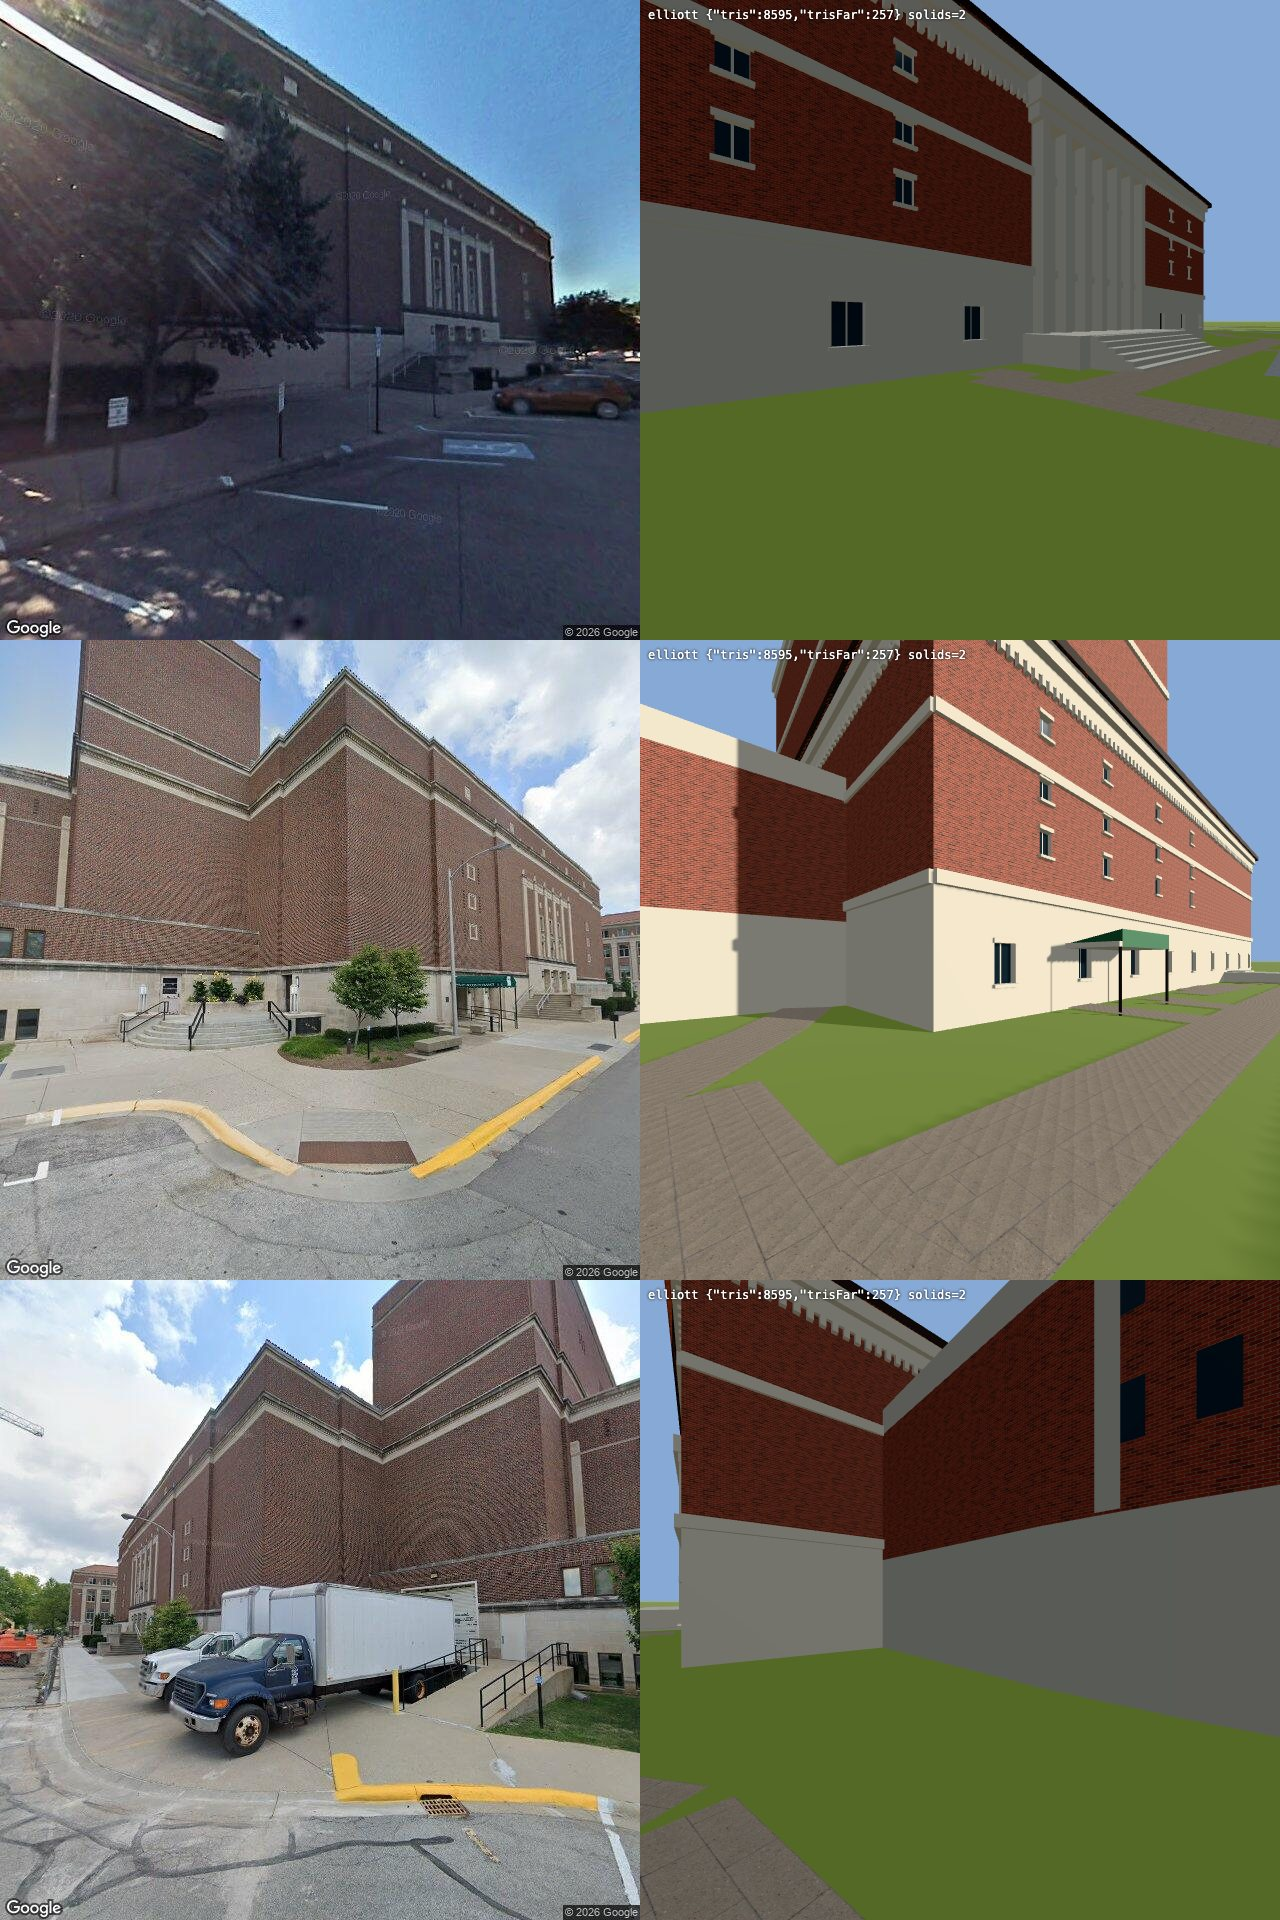
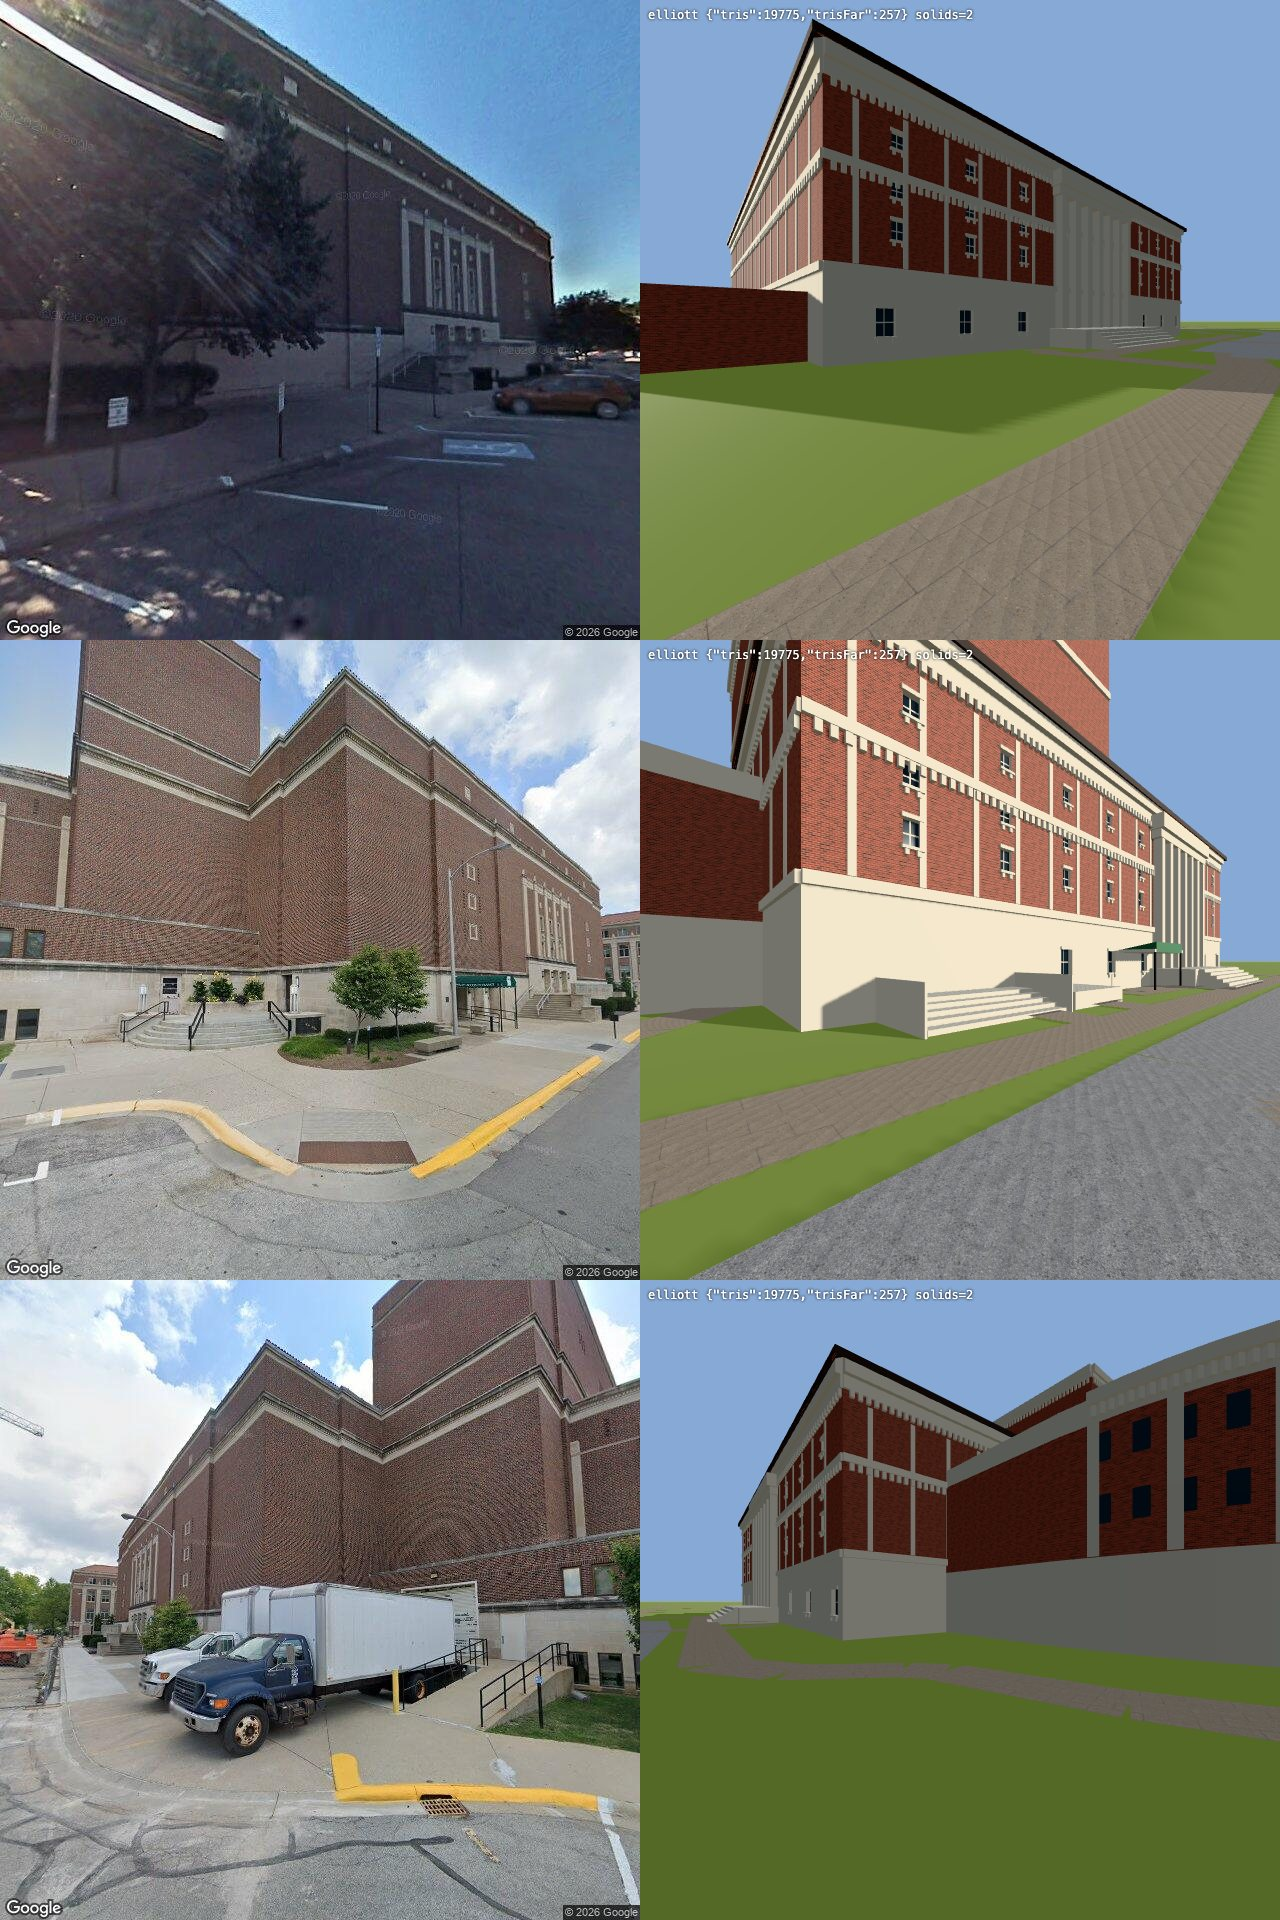
v5: Elliott Hall and Memorial Mall hotspots, hotspot shots tool, side-by-sides, assets log

Changed region(s): [[0.5, 0.0, 1.0, 0.9062], [0.5, 0.9062, 0.6875, 1.0]]

diff --git a/packages/saltline/src/campus/hotspots/elliott.js b/packages/saltline/src/campus/hotspots/elliott.js
@@ -80,6 +80,8 @@ export async function build(G, zone) {
     B.stone.q(f.P(s0, y0, 0), f.P(s0, y0, -dep), f.P(s0, y1, -dep), f.P(s0, y1, 0), 1, 1); B.stone.q(f.P(s1, y0, 0), f.P(s1, y0, -dep), f.P(s1, y1, -dep), f.P(s1, y1, 0), 1, 1);
     B.stone.q(f.P(s0, y1, 0), f.P(s1, y1, 0), f.P(s1, y1, -dep), f.P(s0, y1, -dep), 1, 1); B.stone.q(f.P(s0, y0, 0), f.P(s1, y0, 0), f.P(s1, y0, -dep), f.P(s0, y0, -dep), 1, 1);
     quad(B.stone, f, (s0 + s1) / 2 - 0.04, y0, (s0 + s1) / 2 + 0.04, y1, -dep + 0.02);
+    quad(B.stone, f, s0, (y0 + y1) / 2 - 0.04, s1, (y0 + y1) / 2 + 0.04, -dep + 0.02); // transom
+    for (const c of [s0 + 0.05, s1 - 0.25]) sillBox(f, c, y0 - 0.38, c + 0.2, y0 - 0.14, 0.12); // sill corbels
     sillBox(f, s0 - 0.12, y0 - 0.14, s1 + 0.12, y0, 0.16); sillBox(f, s0 - 0.1, y1, s1 + 0.1, y1 + 0.2, 0.1);
   };
 
@@ -90,7 +92,7 @@ export async function build(G, zone) {
   const WINS = [];
   for (const f of [faces.nw, faces.se]) {
     for (let q = 3; q < f.L - 2; q += 6.4) { if ((f === faces.nw && q > 19 && q < 38) || (f === faces.se && ((q > 29 && q < 47) || q < 14))) continue; WINS.push([f, q, 1.5, q + 1.3, 3.2, 0.3]); }
-    for (const q of f === faces.nw ? [6, 12, 44, 50] : [18, 24, 50, 54]) for (const [y0, y1] of [[7.4, 8.6], [10.0, 11.0], [13.0, 14.0]]) WINS.push([f, q, y0, q + 0.9, y1, 0.2]);
+    for (const q of [4, 10, 16, 22, 28, 34, 40, 46, 52].filter((x) => !(f === faces.nw && x > 19 && x < 37) && !(f === faces.se && x > 29 && x < 47))) for (const [y0, y1] of [[7.4, 8.6], [10.0, 11.0], [13.0, 14.0]]) WINS.push([f, q, y0, q + 0.9, y1, 0.2]);
   }
   for (const [f, a, b, c, d] of WINS) hole(f, a, b, c, d);
   hole(faces.nw, PN[0], 5.4, PN[1], 14.6); hole(faces.se, PS[0], 5.4, PS[1], 14.6); // portico recesses
@@ -98,7 +100,8 @@ export async function build(G, zone) {
     holey(B.stone, f, 0, PL, S.stone); holey(B.brick, f, PL, EAVE, S.brick); quad(F.stoneF, f, 0, 0, f.L, PL, 0, S.stone); quad(F.brickF, f, 0, PL, f.L, EAVE, 0, S.brick);
     // belt courses and frieze/cornice (m: Street View shows a string course at the basement top, one at ~half height and a deep cornice under the eave)
     for (const [y0, y1, o] of [[PL - 0.05, PL + 0.45, 0.2], [11.1, 11.6, 0.14], [15.6, 16.4, 0.15], [16.4, EAVE, 0.45]]) sillBox(f, 0, y0, f.L, y1, o);
-    for (let s = 0.4; s < f.L - 0.4; s += 0.55) sillBox(f, s, 15.15, s + 0.28, 15.6, 0.22); // dentils
+    for (let s = 1.6; s < f.L - 1; s += 3.2) sillBox(f, s, PL + 0.5, s + 0.35, 15.0, 0.07); // brick piers
+    for (let s = 0.4; s < f.L - 0.4; s += 0.55) { sillBox(f, s, 15.15, s + 0.28, 15.6, 0.22); sillBox(f, s, 10.6, s + 0.28, 11.05, 0.18); } // dentils under the cornice and the belt course
   }
   // roof: four trapezoids to the flat top + overhang soffit + fascia (closed, outer ring at EAVE - OV*TAN)
   const yo = EAVE - OV * TAN, inset = (TOP - yo) / TAN - OV;
@@ -110,7 +113,7 @@ export async function build(G, zone) {
     B.tile.q(a, b, c, d, 1, 1, [[0, 0], [w, 0], [w - off, hh], [off, hh]]); F.tileF.q(a, b, c, d, 1, 1, [[0, 0], [w, 0], [w - off, hh], [off, hh]]);
     const e0 = pt(hc[i], EAVE), e1 = pt(hc[j], EAVE), o0 = pt(out[i], yo), o1 = pt(out[j], yo);
     B.dark.q(e0, e1, o1, o0, 1, 1); B.dark.q(o0, o1, [o1[0], yo + 0.5, o1[2]], [o0[0], yo + 0.5, o0[2]], 1, 1); // soffit + fascia
-    for (let s = 0.45; s < w - 0.45; s += 0.9) { // raised tile seams every 0.9 m up the slope
+    for (let s = 0.15; s < w - 0.15; s += 0.3) { // raised tile seams every 0.3 m up the slope
       const t = s / w, base = [a[0] + (b[0] - a[0]) * t, a[1], a[2] + (b[2] - a[2]) * t], topP = [d[0] + (c[0] - d[0]) * t, TOP, d[2] + (c[2] - d[2]) * t];
       const nx = (-(b[2] - a[2]) / w) * 0.03, nz = ((b[0] - a[0]) / w) * 0.03;
       B.tile.q([base[0] - nx, base[1] + 0.04, base[2] - nz], [base[0] + nx, base[1] + 0.04, base[2] + nz], [topP[0] + nx, topP[1] + 0.04, topP[2] + nz], [topP[0] - nx, topP[1] + 0.04, topP[2] - nz], 0.2, 0.2);
@@ -126,7 +129,7 @@ export async function build(G, zone) {
     const tf = [face([T.u0, T.v0], [T.u1, T.v0], [0, -1]), face([T.u1, T.v0], [T.u1, T.v1], [1, 0]), face([T.u1, T.v1], [T.u0, T.v1], [0, 1]), face([T.u0, T.v1], [T.u0, T.v0], [-1, 0])];
     for (const f of tf) {
       quad(B.brick, f, 0, EAVE - 0.3, f.L, T.top, 0, S.brick); quad(F.brickF, f, 0, EAVE - 0.3, f.L, T.top, 0, S.brick);
-      sillBox(f, 0, T.top - 1.4, f.L, T.top - 0.9, 0.18); sillBox(f, 0, T.top - 0.9, f.L, T.top, 0.4); sillBox(f, 0, 23.0, f.L, 23.5, 0.14);
+      for (let q = 0.4; q < f.L - 0.4; q += 0.55) sillBox(f, q, T.top - 2.0, q + 0.28, T.top - 1.45, 0.2); sillBox(f, 0, T.top - 1.4, f.L, T.top - 0.9, 0.18); sillBox(f, 0, T.top - 0.9, f.L, T.top, 0.4); sillBox(f, 0, 23.0, f.L, 23.5, 0.14);
     }
     const tp = tc.map(([u, v]) => W(u, v)); fillPoly(B.dark, tp, T.top, 0.3); fillPoly(F.darkF, tp, T.top, 0.3);
   }
@@ -143,6 +146,7 @@ export async function build(G, zone) {
         const a2 = grow(a, 0.4), b2 = grow(b, 0.4);
         wall(B.stone, a2, b2, D.h - 0.5, D.h + 0.15, S.stone); B.stone.q([a2[0], D.h + 0.15, a2[1]], [b2[0], D.h + 0.15, b2[1]], [b[0], D.h + 0.15, b[1]], [a[0], D.h + 0.15, a[1]], 1, 1);
         B.stone.q([a[0], D.h - 0.5, a[1]], [b[0], D.h - 0.5, b[1]], [b2[0], D.h - 0.5, b2[1]], [a2[0], D.h - 0.5, a2[1]], 1, 1);
+        for (const t of [0.15, 0.4, 0.65, 0.9]) { const g = grow([a[0] + (b[0] - a[0]) * t, a[1] + (b[1] - a[1]) * t], 0.2); box(B.stone, g[0] - 0.12, D.h - 1.1, g[1] - 0.12, g[0] + 0.12, D.h - 0.55, g[1] + 0.12); } // dentils
         if (i % 2 === 0) wall(B.stone, grow(a, 0.3), grow([a[0] + (b[0] - a[0]) * 0.35, a[1] + (b[1] - a[1]) * 0.35], 0.3), 4.6, D.h - 1.3, 1);
         for (const [y0, y1] of [[6.2, 7.6], [9.2, 10.6]]) {
           const wa = grow([a[0] + (b[0] - a[0]) * 0.18, a[1] + (b[1] - a[1]) * 0.18], 0.04), wb = grow([a[0] + (b[0] - a[0]) * 0.62, a[1] + (b[1] - a[1]) * 0.62], 0.04);
@@ -190,7 +194,7 @@ export async function build(G, zone) {
   for (const b of Object.values(F)) if (b.p.length) far3.add(b.mesh());
   const group = new Group(); group.name = 'elliott'; group.add(near3, far3); far3.visible = false;
   // near/far swap at FAR m from the building centre, driven by the render camera (hysteresis 10 m)
-  const C = W(40, 30), pump = new Mesh(new BoxGeometry(0.01, 0.01, 0.01), new MeshBasicMaterial({ visible: false })); pump.frustumCulled = false;
+  const C = W(40, 30), pump = new Mesh(new BoxGeometry(0.01, 0.01, 0.01), new MeshBasicMaterial({ colorWrite: false, depthWrite: false })); pump.frustumCulled = false;
   pump.onBeforeRender = (r, sc, camera) => { const d = Math.hypot(camera.position.x - C[0], camera.position.z - C[1]), f = d > FAR + (far3.visible ? -10 : 0); far3.visible = f; near3.visible = !f; };
   group.add(pump);
   const tris = Object.values(B).reduce((s, b) => s + b.tris, 0), trisFar = Object.values(F).reduce((s, b) => s + b.tris, 0);

diff --git a/packages/saltline/src/campus/hotspots/memorial-mall.js b/packages/saltline/src/campus/hotspots/memorial-mall.js
@@ -3,7 +3,7 @@
 // Species mix and canopy: env/trees.js (oak/maple/linden/locust/spruce/pear, seasonal via ?season=). Guessed: bench and lamp spacing; flower-bed planting colours.
 // Measured from Street View: black post lamps with a lantern head, bollards linked by chain along the drive, wide pale concrete walks with a brick-paver edge band, juniper hedge in the drive median.
 // No monuments are in the OSM data or visible in the 5 frames, so none are drawn (reported in docs/assets.md).
-import { Group, Mesh, MeshStandardMaterial, SphereGeometry, InstancedMesh, Matrix4, Color, Quaternion, Vector3 } from 'three';
+import { Group, Mesh, MeshBasicMaterial, MeshStandardMaterial, SphereGeometry, InstancedMesh, Matrix4, Color, Quaternion, Vector3 } from 'three';
 import { buildWalkTrees } from '../env/trees.js';
 import { Buf, fillPoly, ribbon, std, tex, rng, inPoly, distPath } from './lib/common.js';
 import data from './data/mall.json';
@@ -19,7 +19,7 @@ const runs = (pts) => { const out = []; let cur = []; for (const p of pts) { if 
 
 export async function build(G, zone) {
   const POFF = { polygonOffset: true, polygonOffsetFactor: -2, polygonOffsetUnits: -2 };
-  const lawnM = std({ map: tex('walk/grass-albedo.jpg'), color: 0xb8c48a, roughness: 1, ...POFF }), walkM = std({ map: tex('walk/concrete-albedo.jpg'), color: 0xe0dacb, roughness: 0.95, ...POFF }),
+  const lawnM = std({ map: tex('walk/grass-albedo.jpg'), color: 0xe4f0b0, roughness: 1, ...POFF }), walkM = std({ color: 0xc8c4b8, roughness: 0.95, ...POFF }),
     roadM = std({ map: tex('walk/asphalt-albedo.jpg'), roughness: 0.95, ...POFF }), paverM = std({ map: tex('walk/pavers-albedo.jpg'), roughness: 0.9, ...POFF }),
     mulchM = std({ color: 0x4a3626, roughness: 1, ...POFF }), curbM = std({ color: 0xc4bfb2, roughness: 0.9 }), ironM = std({ color: 0x1b1c1e, roughness: 0.5, metalness: 0.6 }),
     woodM = std({ color: 0x7a5a38, roughness: 0.8 }), lampM = std({ color: 0xfff1d0, emissive: 0xffe2a8, emissiveIntensity: 0.5 });
@@ -86,7 +86,7 @@ export async function build(G, zone) {
   // ---- trees: OSM nodes, species from env/trees.js ----
   const treePts = data.trees.filter(([x, z]) => inBox(x, z) && !paths.some((p) => (p.kind === 'road') && distPath(x, z, p.points) < 3.5));
   const trees = buildWalkTrees({ trees: treePts.map(([x, z]) => ({ x, z })) });
-  const pump = new Mesh(new SphereGeometry(0.01), new MeshStandardMaterial({ visible: false })); pump.frustumCulled = false; pump.onBeforeRender = (r, s, camera) => trees.update(camera);
+  const pump = new Mesh(new SphereGeometry(0.01), new MeshBasicMaterial({ colorWrite: false, depthWrite: false })); pump.frustumCulled = false; pump.onBeforeRender = (r, s, camera) => trees.update(camera);
   group.add(trees, pump);
   for (const [x, z] of treePts) { const r = 0.45; solids.push([[x - r, z - r], [x + r, z - r], [x + r, z + r], [x - r, z + r]]); }
   const tris = [L, ML, WK, PV, RD, CB, IR, WD, LP].reduce((s, b) => s + b.tris, 0);

diff --git a/docs/assets.md b/docs/assets.md
@@ -149,3 +149,18 @@ Google Street View Static API frames bought/downloaded by the owner with their o
 | packages/saltline/public/campus/walk/walc/south-bulge.jpg | Rectified albedo of the south bulge face (pano _2SMIzURFlvLO3vHwJQjiA, 2017-09, heading 0) | Google Street View, pano _2SMIzURFlvLO3vHwJQjiA | © 2026 Google | Yes |
 | (measurements only) pano CAoSFENJSE0wb2dLRUlDQWdJQzZzNVF5, 2021-09 | all four headings are INTERIOR (STEAM Commons, Au Bon Pain): no east-face exterior coverage; used for nothing | Google Street View | Google, © Kaho Sakaue | Yes |
 Tools: tools/walc-rectify.py (rectify + colour correction), tools/walc-sidebyside.py. Roof tile: no roof is visible in any frame (only dark soffits), colour unchanged from the Purdue design render; north face of WALC: COPIED from the south long wall (layout, mirrored in z so x positions are kept), not measured, no photo. Bell tower frames (bell-tower/) not used here (belltower.js is other work).
+
+## v5 hotspots (v5-elliott-mall): Elliott Hall of Music, Memorial Mall
+
+Code-generated scenes `packages/saltline/src/campus/hotspots/{elliott,memorial-mall}.js` (no model files). Subsets of OSM data in `hotspots/data/*.json` via `tools/hotspot-data.py`.
+
+| File / data | Use | Source | Licence | Needs clearance |
+|---|---|---|---|---|
+| data/raw/streetview/elliott-hall-of-music: HwF9pEOA_GGsn7OmyaXn2A (2007-09), XvCOiCOdmYC3iN9U64hBJg (2019-08), gd8RfryM02nVN5eF4Kj7Sg (2019-08), all 4 headings | measurements only (plan, portico, belts, windows); side-by-side docs/img/v5-elliott-vs-ref.jpg | Google Street View Static API (owner key) | (c) 2026 Google | Yes |
+| data/raw/streetview/memorial-mall: edsyJrqna9EH1j_glWMayw (2019-08), eey-GRoIHUgaa9f9gm4QQw (2026-03), G1TnVsgNtp47PJz65TM4_g (2019-08), 4ZJB4xBsLSZSpd_pZk8Zzw (2019-08) | lamps, chain posts, hedge, walk/paver treatment; docs/img/v5-mall-vs-ref.jpg | Google Street View Static API (owner key) | (c) 2026 Google | Yes |
+| docs/img/google/elliott-*.jpg, mall-*.jpg, mall-area-topdown.png | massing, roof, tower/drum layout, path and canopy layout | Google Photorealistic 3D Tiles renders | (c) Google | Yes |
+| data/pilot/roofs.json (way/74151922), data/heights.json | roof planes (flat ~22.8 m, hip 33.7 deg), heights | USGS 3DEP lidar (see rows above) | public domain | No |
+| data/campus.json (Elliott footprint, Memorial Mall park/lawns/gardens/paths/trees) | footprints, paths, trees | OpenStreetMap contributors | ODbL | Attribution |
+| Not found | monuments on Memorial Mall: none in OSM or in the 5 frames, none drawn | | | |
+
+Note: the brief called Elliott circular/domed; the data show a rectangular hipped-roof hall with a half-round rotunda. Raw frames for memorial-mall were read from a sibling worktree (gitignored, not committed).
